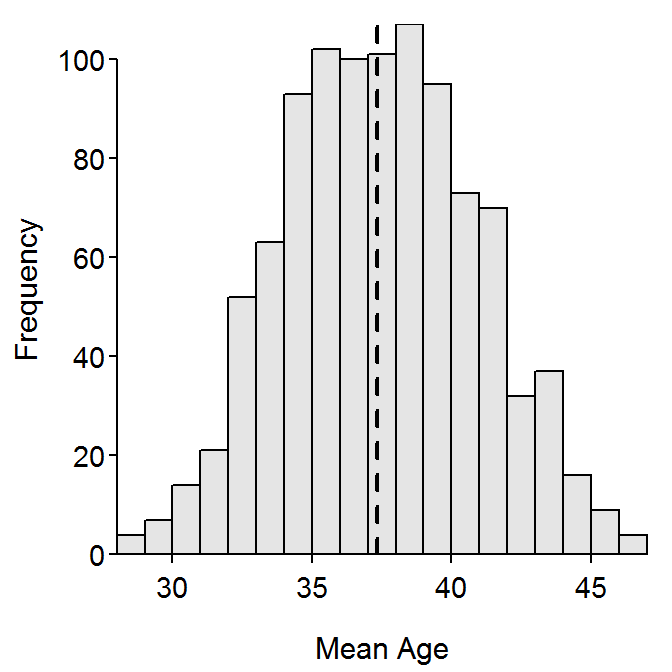
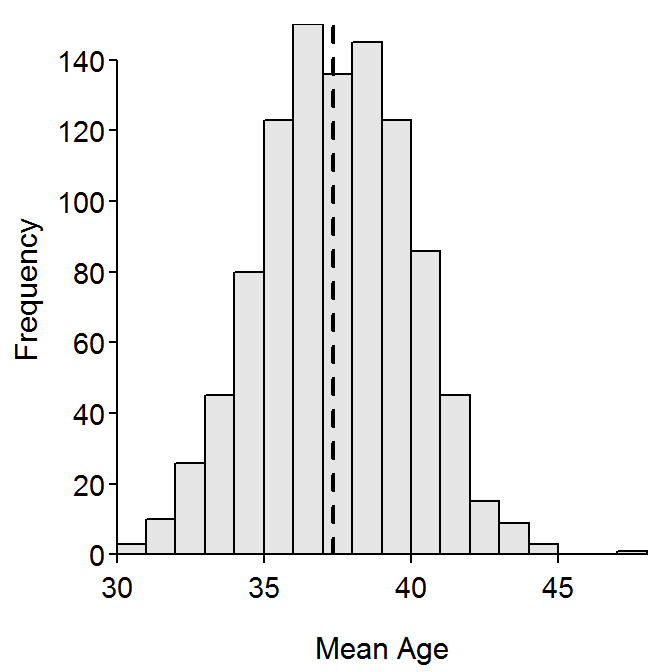
Updating why stats exercise

diff --git a/modules/Why_Statistics_is_Important/CE.html b/modules/Why_Statistics_is_Important/CE.html
@@ -9,7 +9,7 @@ css: "/css/modules.css"
 
 <hr />
 <p>The following code is used to produce a “live” example for class. The meaning of this code will be explained later. For now, we simply want the results that are produced.</p>
-<p>Type the code exactly as shown in each grey box and attempt to answer the follow-up questions.</p>
+<p>Type the code exactly as shown in each grey box and attempt to answer the follow-up questions. <strong>Please don’t go on to the next section until we have discussed the questions as a class.</strong></p>
 <hr />
 <div id="load-the-ncstats-package" class="section level2">
 <h2>Load the NCStats package</h2>
@@ -18,47 +18,48 @@ css: "/css/modules.css"
 </div>
 <div id="obtain-a-random-sample-of-residents-from-ashland-bayfield-counties" class="section level2">
 <h2>Obtain a Random Sample of Residents from Ashland-Bayfield Counties</h2>
-<pre class="r"><code>&gt; ( sam1 &lt;- srsdf(ABCens90,n=50) )</code></pre>
+<pre class="r"><code>( samA &lt;- srsdf(ABCens90,n=100) )</code></pre>
 <ul>
-<li>Were the individuals in your sample identical? Why or why not?</li>
-<li>Can you quickly explain the “general” age and sex of individuals in your sample? Why or why not?</li>
+<li>Are the individuals in your sample identical? Why or why not?</li>
+<li>Write a one or two sentence conclusion about the age of individuals in your sample.</li>
+<li>Write a one or two sentence conclusion about the sex of individuals in your sample.</li>
+<li>Were your conclusions “easy” or “hard” to write? Why? What could you do to make writing your conclusions easier?</li>
 </ul>
 <p> </p>
 </div>
-<div id="summarize-that-sample" class="section level2">
-<h2>Summarize that Sample</h2>
-<pre class="r"><code>&gt; Summarize(~age,data=sam1,digits=1)
-&gt; percTable(xtabs(~sex,data=sam1),digits=1)</code></pre>
+<div id="summarize-your-sample" class="section level2">
+<h2>Summarize Your Sample</h2>
+<pre class="r"><code>Summarize(~age,data=samA,digits=1)
+percTable(xtabs(~sex,data=samA),digits=1)</code></pre>
 <ul>
-<li>Can you quickly explain the “general” age and sex of individuals in your sample? Why or why not?</li>
+<li>How was the “mean” age calculated?</li>
+<li>How was the percentage of males calculated?</li>
+<li>Write a one or two sentence conclusion about the age of individuals in your sample.</li>
+<li>Write a one or two sentence conclusion about the sex of individuals in your sample.</li>
+<li>Was it easier to write your conclusions here then previously? Why or why not?</li>
 </ul>
 <p> </p>
 </div>
-<div id="obtain-a-second-random-sample-of-residents-from-ashland-bayfield-counties" class="section level2">
-<h2>Obtain a Second Random Sample of Residents from Ashland-Bayfield Counties</h2>
-<pre class="r"><code>&gt; ( sam2 &lt;- srsdf(ABCens90,n=50) )
-&gt; Summarize(~age,data=sam2,digits=1)
-&gt; percTable(xtabs(~sex,data=sam2),digits=1)</code></pre>
+<div id="obtain-a-second-random-sample" class="section level2">
+<h2>Obtain a Second Random Sample</h2>
+<pre class="r"><code>( samB &lt;- srsdf(ABCens90,n=100) )
+Summarize(~age,data=samB,digits=1)
+percTable(xtabs(~sex,data=samB),digits=1)</code></pre>
 <ul>
 <li>Were the mean ages from the two samples identical?</li>
 <li>Were the percentage of females from the two samples identical?</li>
-<li>Are your results typical or expected? Why or why not?</li>
+<li>Are your results (about whether the mean or percentage between samples were identical) typical or expected? Why or why not?</li>
 </ul>
 <p> </p>
 </div>
 <div id="compare-your-results-to-the-truth" class="section level2">
 <h2>Compare Your Results to the Truth</h2>
-<pre class="r"><code>&gt; Summarize(~age,data=ABCens90,digits=1)</code></pre>
-<pre><code>       n     mean       sd      min       Q1   median       Q3      max percZero 
- 30335.0     37.3     24.3      0.0     16.0     35.0     57.0     96.0      1.2 </code></pre>
-<pre class="r"><code>&gt; percTable(xtabs(~sex,data=ABCens90),digits=1)</code></pre>
-<pre><code>sex
-female   male    Sum 
-  50.3   49.7  100.0 </code></pre>
+<pre class="r"><code>Summarize(~age,data=ABCens90,digits=1)
+percTable(xtabs(~sex,data=ABCens90),digits=1)</code></pre>
 <ul>
 <li>Did your sample mean ages exactly equal this true value for the population?</li>
 <li>Did your sample percentages of females exactly equal this true percentage of females in the population?</li>
-<li>Are your results typical or expected? Why or why not?</li>
+<li>Are your results (about whether the summaries from your sample matched the summary from the population) typical or expected? Why or why not?</li>
 </ul>
 <p> </p>
 </div>
